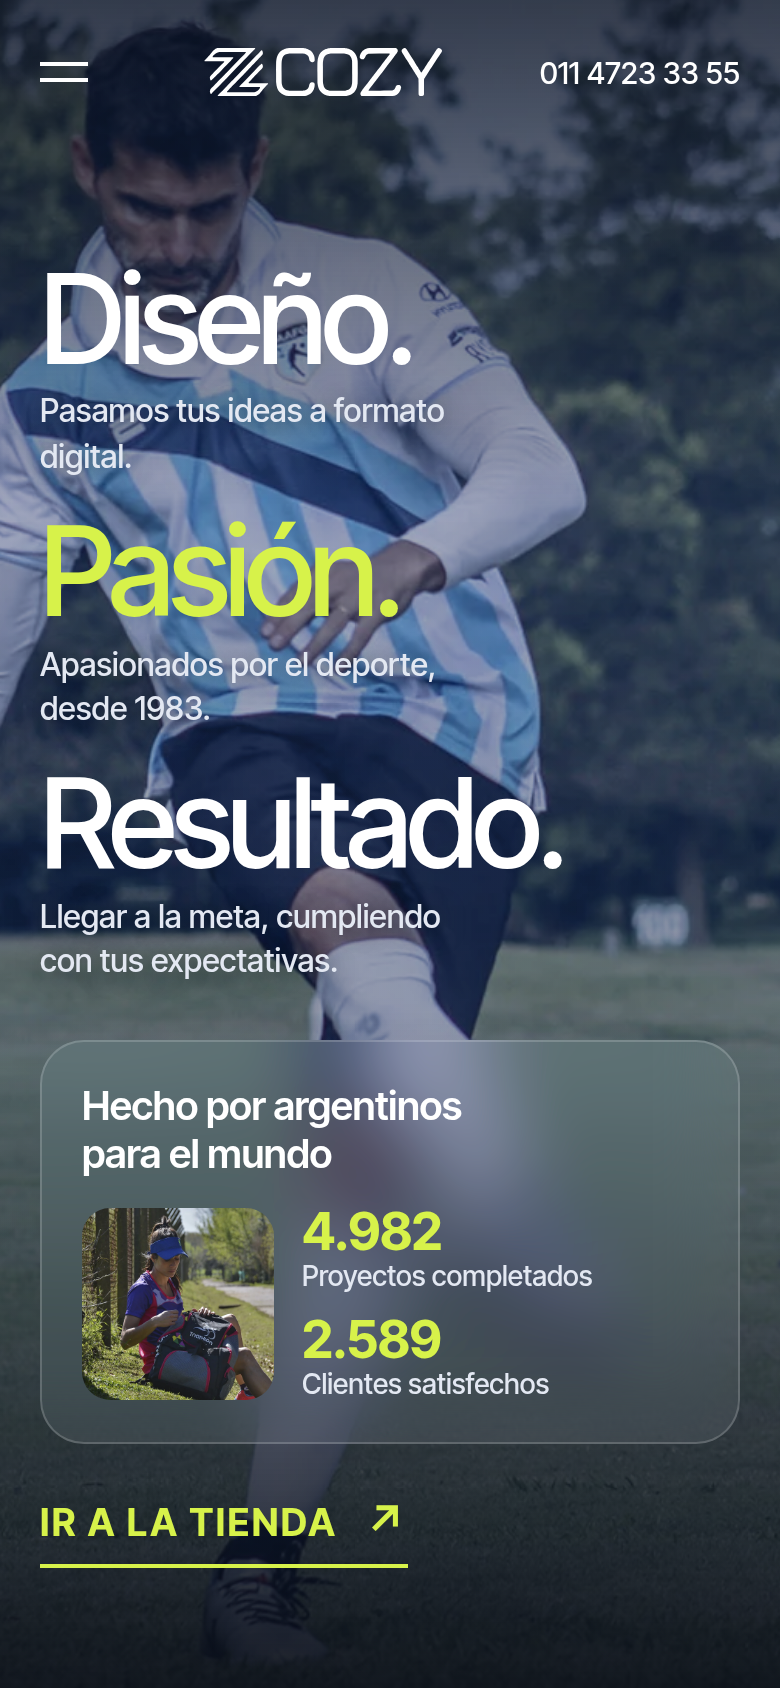
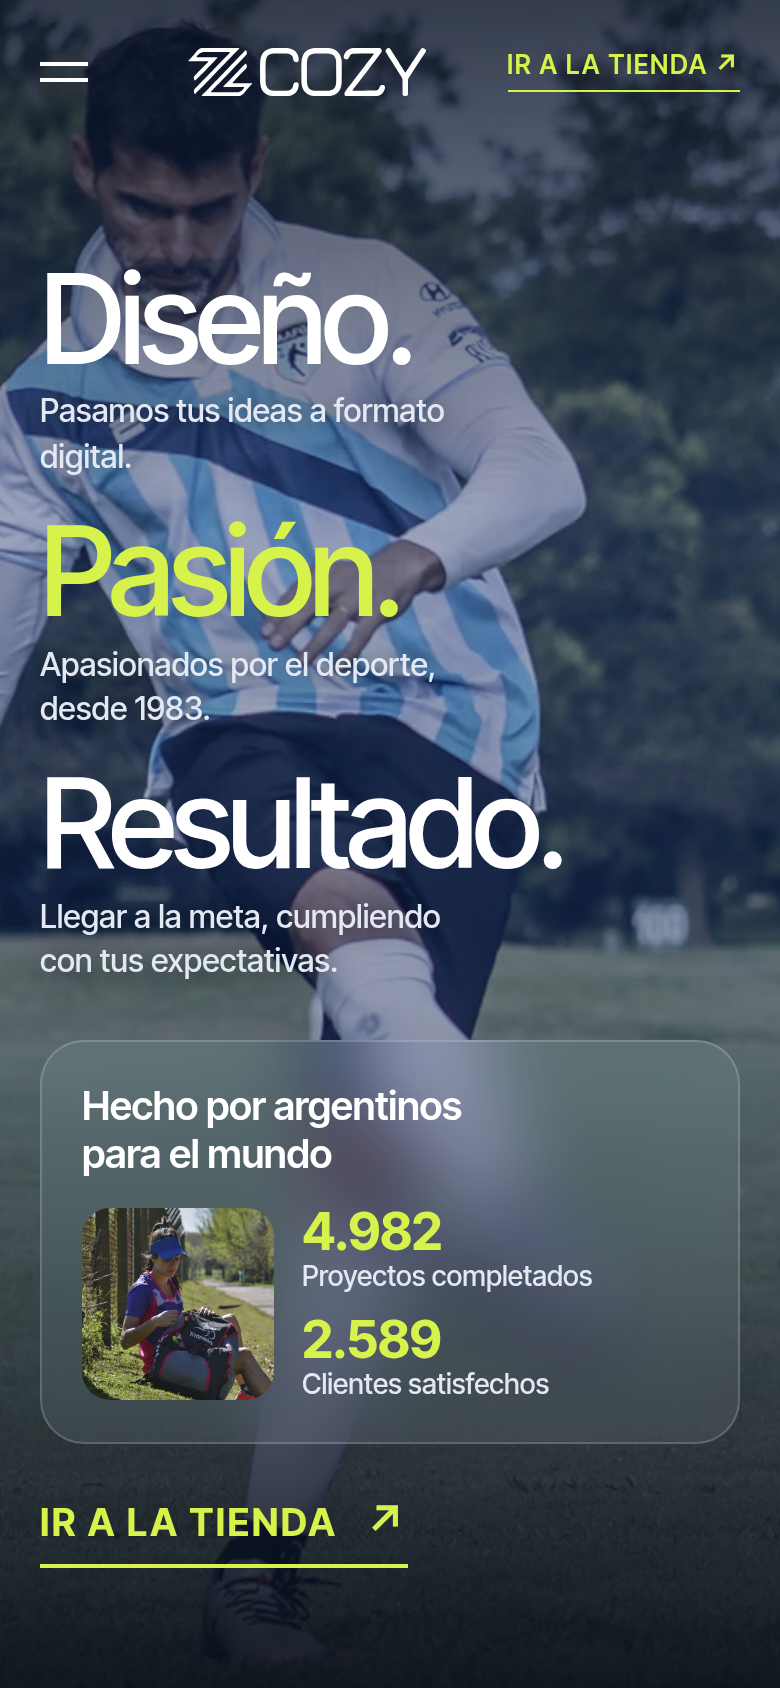
Header: replace phone with 'Ir a la tienda' link

Changed region(s): [[0.6462, 0.0308, 0.9538, 0.0616], [0.2462, 0.0308, 0.5538, 0.0616]]

diff --git a/styles.css b/styles.css
@@ -35,8 +35,8 @@ em{font-style:normal;color:var(--lime)}
 .bar__nav a:hover{color:var(--lime)}
 .bar__only-m{display:none}
 .bar__logo img{height:30px;width:auto}
-.bar__tel{justify-self:end;text-decoration:none;font:500 16px/1 var(--font)}
-.bar__tel:hover{color:var(--lime)}
+.bar__tel{justify-self:end;text-decoration:none;font:600 15px/1 var(--font);letter-spacing:.06em;text-transform:uppercase;color:var(--lime);padding-bottom:6px;border-bottom:1.5px solid var(--lime);white-space:nowrap}
+.bar__tel:hover{color:#fff;border-color:#fff}
 .bar__toggle{display:none;background:none;border:0;width:44px;height:44px;cursor:pointer;position:relative}
 .bar__toggle i{position:absolute;left:10px;right:10px;height:2px;background:#fff;transition:transform .3s}
 .bar__toggle i:first-of-type{top:17px}.bar__toggle i:last-of-type{top:25px}
@@ -239,7 +239,7 @@ em{font-style:normal;color:var(--lime)}
   .bar__toggle{display:block;grid-column:1;grid-row:1;margin-left:-10px}
   .bar__logo{grid-column:2;justify-self:center}
   .bar__logo img{height:24px}
-  .bar__tel{grid-column:3;font-size:15px}
+  .bar__tel{grid-column:3;font-size:13px}
   .bar__nav{position:fixed;inset:0;z-index:-1;flex-direction:column;justify-content:center;gap:0;padding:80px var(--pad);background:rgba(7,11,20,.97);opacity:0;pointer-events:none;transition:opacity .3s}
   .bar__nav.is-open{opacity:1;pointer-events:auto}
   .bar__nav a{font-size:30px;font-weight:600;letter-spacing:-.02em;padding:14px 0;border-bottom:1px solid var(--line)}

diff --git a/index.html b/index.html
@@ -18,7 +18,7 @@
 <link rel="preconnect" href="https://fonts.gstatic.com" crossorigin>
 <link href="https://fonts.googleapis.com/css2?family=Inter+Tight:ital,wght@0,400;0,500;0,600;0,700;0,800;1,500&display=swap" rel="stylesheet">
 <link rel="preload" as="image" href="assets/RATON_SLIDER.webp">
-<link rel="stylesheet" href="styles.css?v=202610250330">
+<link rel="stylesheet" href="styles.css?v=202610250340">
 <script>document.documentElement.classList.add('js')</script>
 </head>
 <body id="top">
@@ -35,7 +35,7 @@
   </nav>
   <button class="bar__toggle" aria-expanded="false" aria-controls="menu"><span class="sr">Abrir menú</span><i></i><i></i></button>
   <a class="bar__logo" href="#top" aria-label="Cozy Sport, inicio"><img src="assets/cozy-wordmark-white.svg" alt="Cozy Sport" width="327" height="66"></a>
-  <a class="bar__tel" href="tel:+541147233355">011 4723 33 55</a>
+  <a class="bar__tel" href="https://cozy-sport.vercel.app" target="_blank" rel="noopener">Ir a la tienda <span aria-hidden="true">↗</span></a>
 </header>
 
 <main id="main">
@@ -266,6 +266,6 @@
     <a href="#top">Volver arriba ↑</a>
   </div>
 </footer>
-<script src="main.js?v=202610250330" defer></script>
+<script src="main.js?v=202610250340" defer></script>
 </body>
 </html>
